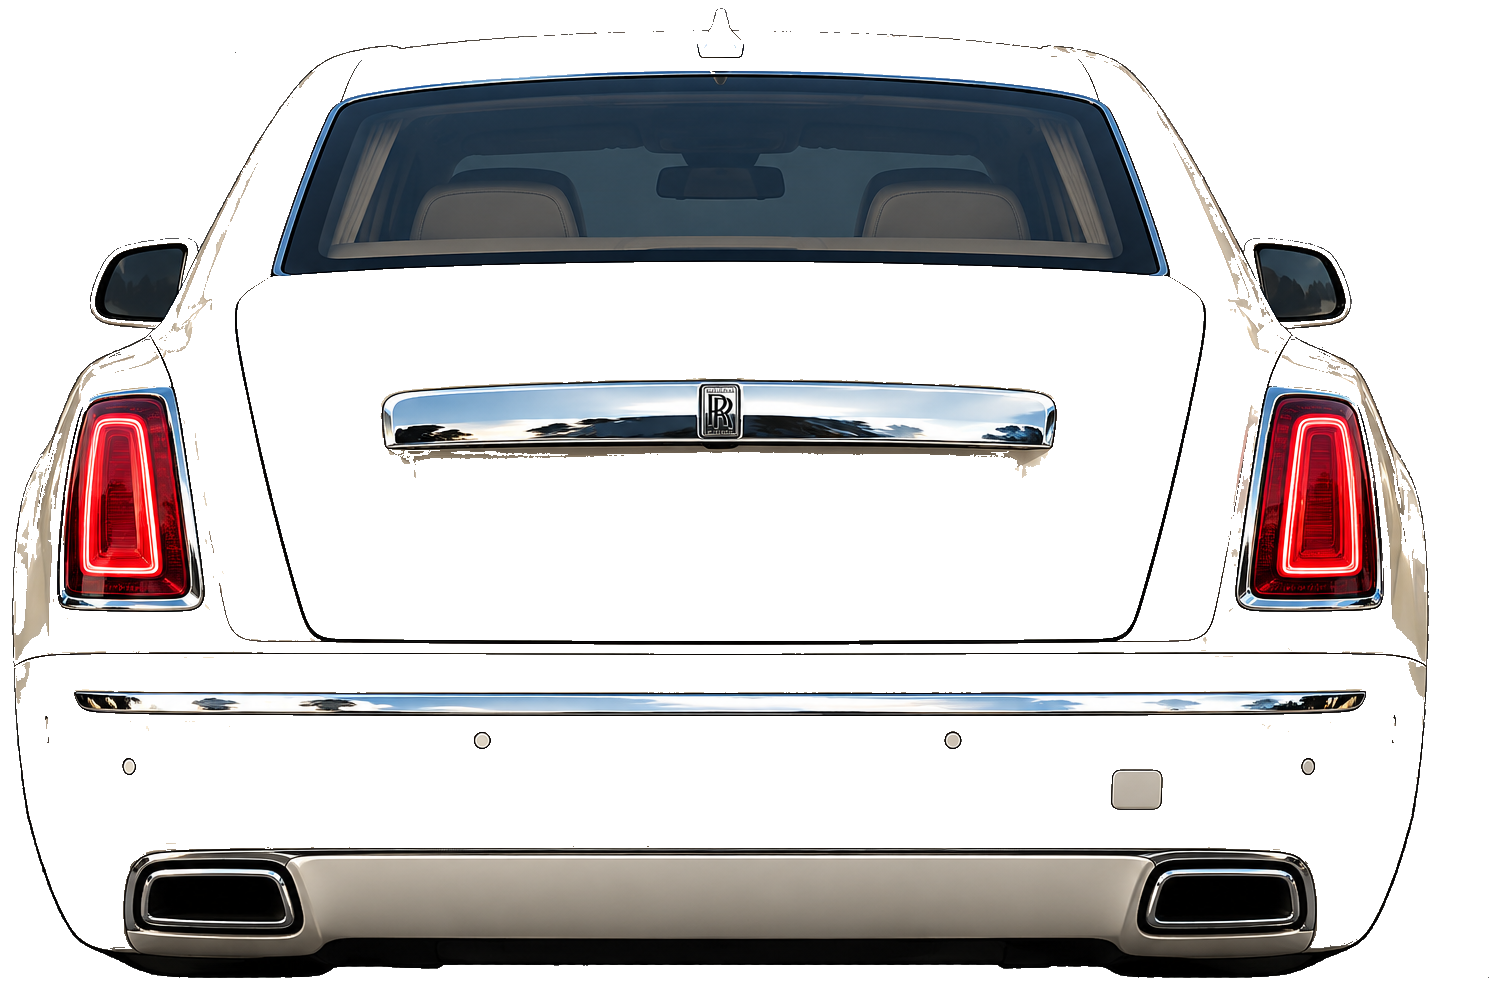
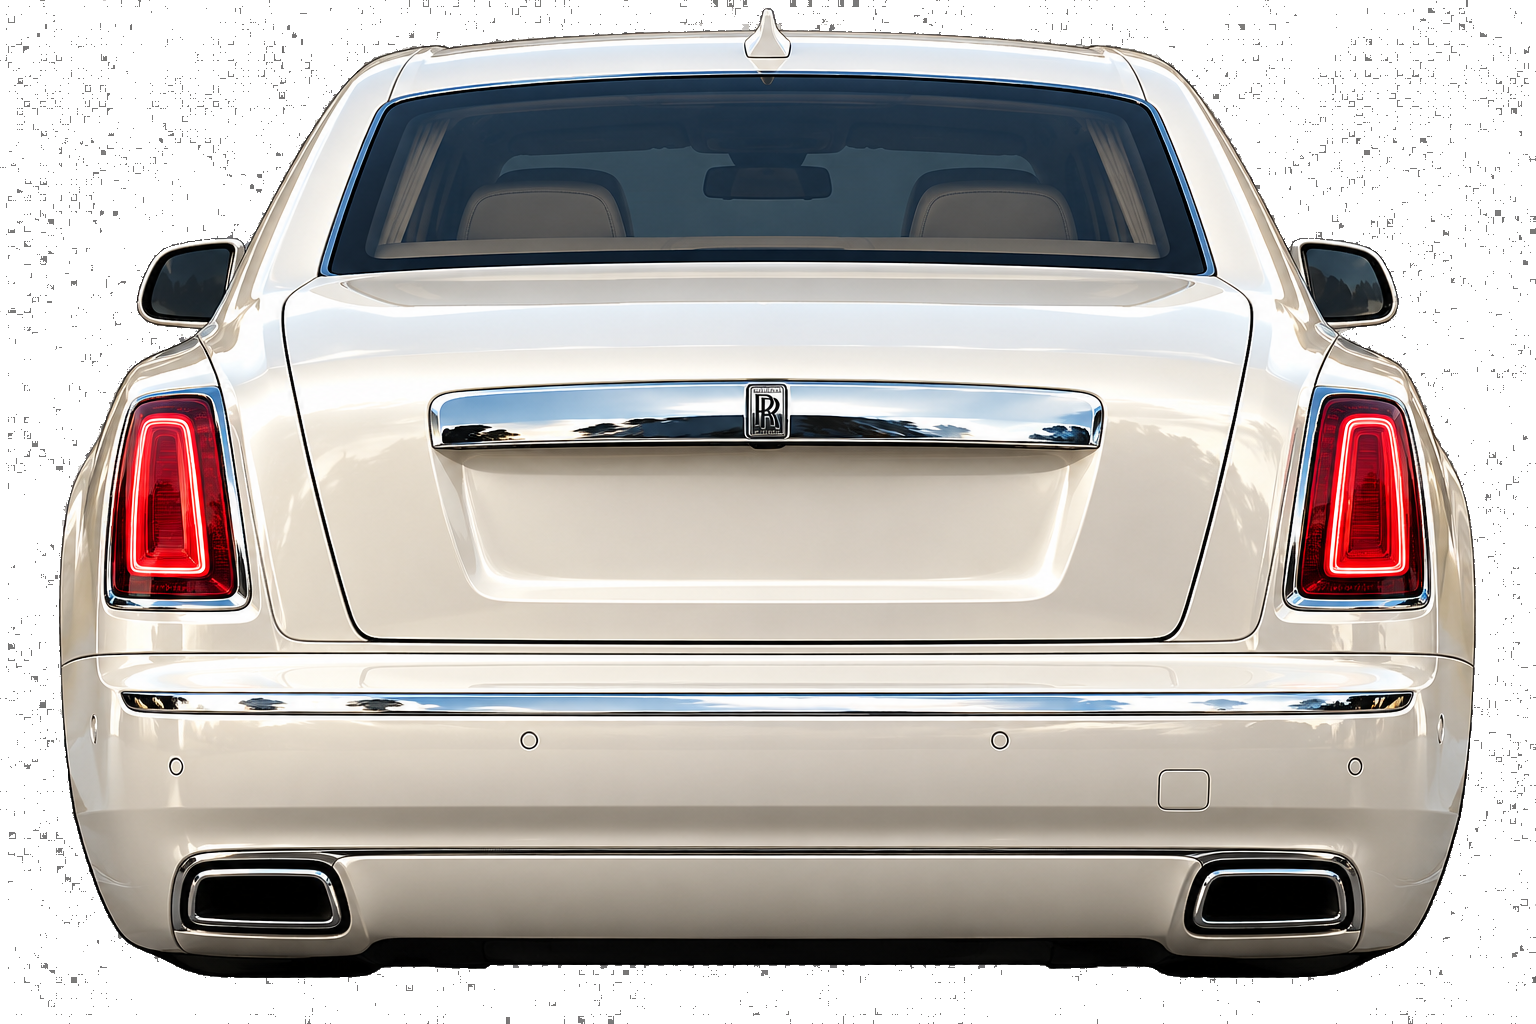
Fix Phantom race sprite transparency

diff --git a/index.html b/index.html
@@ -296,7 +296,7 @@ if(o.logo){c.fillStyle=o.logoColor||'#1b2230';c.font='bold 4px sans-serif';c.tex
 const RC=[{w:92,h:44,cw:50,ch:14,L:'r',e:2},{w:96,h:56,cw:66,ch:20,L:'rc',g:1.05,e:3},{w:104,h:50,cw:62,ch:15,L:'b3',e:2},{w:88,h:52,cw:58,ch:19,L:'rc',pd:1,e:1},{w:98,h:54,cw:64,ch:18,L:'q',g:.98,e:4},{w:108,h:54,cw:66,ch:16,L:'bar',e:2},{w:96,h:56,cw:62,ch:18,L:'rc',g:1.1,e:2},{w:100,h:50,cw:60,ch:15,L:'q',g:1,e:2},{w:106,h:48,cw:60,ch:13,L:'sl',e:2},{w:84,h:56,cw:48,ch:24,L:'r',dm:1,e:1},{w:94,h:46,cw:52,ch:15,L:'r',e:2},{w:98,h:48,cw:58,ch:15,L:'r',e:2},{w:98,h:46,cw:56,ch:14,L:'q',g:.8,e:2},{w:92,h:44,cw:54,ch:14,L:'rc',e:2},{w:110,h:44,cw:50,ch:12,L:'sl',g:1,e:4},{w:104,h:40,cw:48,ch:12,L:'rc',e:2},{w:96,h:52,cw:62,ch:17,L:'rc',e:2},{w:104,h:52,cw:62,ch:16,L:'q',g:1,e:4},{w:100,h:46,cw:56,ch:14,L:'bar',e:2},{w:108,h:42,cw:50,ch:12,L:'r',g:1.15,e:2},{w:96,h:46,cw:60,ch:14,L:'sl',e:2},{w:106,h:54,cw:56,ch:18,L:'bar',e:2},{w:96,h:44,cw:56,ch:14,L:'q',e:2},{w:108,h:56,cw:90,ch:20,L:'bar',e:2},{w:110,h:42,cw:58,ch:12,L:'bar',g:1,e:1},{w:80,h:50,cw:56,ch:16,L:'r',e:1},{w:104,h:50,cw:64,ch:15,L:'b3',g:1.1,e:4},{w:122,h:58,cw:82,ch:21,L:'bar',pd:1,e:4},{w:108,h:48,cw:66,ch:15,L:'q',g:1.05,e:3},{w:116,h:54,cw:70,ch:17,L:'bar',e:2},{w:96,h:46,cw:60,ch:15,L:'sl',e:2},{w:100,h:44,cw:58,ch:14,L:'q',e:2},{w:106,h:52,cw:68,ch:17,L:'b3',g:1,e:4},{w:120,h:50,cw:72,ch:15,L:'bar',e:2},{w:110,h:34,cw:82,ch:9,L:'bar',g:1.2,e:4}];
 const EX={1:[0],2:[-.3,.3],3:[-.14,0,.14],4:[-.36,-.26,.26,.36]};
 function rearCar(c,x,y,s,i,fl,br,cc){const m=RC[i],w=m.w*s,h=m.h*s,cw=m.cw*s,ch=m.ch*s,col=cc||SP[i].c,by=-h*.74;c.save();c.translate(x,y);
-if((i===33||i===34)&&SPRITE_IMG[i+'r']&&SPRITE_IMG[i+'r'].complete&&SPRITE_IMG[i+'r'].naturalWidth){const im=SPRITE_IMG[i+'r'],iw=w*1.2,ih=iw/(im.naturalWidth/im.naturalHeight),bob=Math.sin(T*21+i*1.7)*(.8+Math.min(1,(R?.v||0)/250)*.7)*s;c.translate(0,bob);c.rotate(Math.sin(T*2.6+i)*.006);c.save();c.shadowColor='#000c';c.shadowBlur=9*s;c.fillStyle='#0009';c.beginPath();c.ellipse(0,2*s,iw*.4,Math.max(2,ih*.05),0,0,Math.PI*2);c.fill();c.restore();c.imageSmoothingEnabled=true;c.drawImage(im,-iw/2,-ih+1*s,iw,ih);const pulse=.5+.5*Math.sin(T*8+i);c.save();c.globalCompositeOperation='lighter';c.shadowColor='#ff2626';c.shadowBlur=(4+4*pulse)*s;c.fillStyle='rgba(255,36,32,'+(.16+.2*pulse)+')';c.fillRect(-iw*.44,-ih*.43,iw*.11,ih*.035);c.fillRect(iw*.33,-ih*.43,iw*.11,ih*.035);if(i===34){c.shadowBlur=(3+5*pulse)*s;c.fillStyle='rgba(255,38,22,'+(.22+.3*pulse)+')';c.beginPath();c.ellipse(0,-ih*.47,iw*.018,ih*.012,0,0,Math.PI*2);c.fill()}c.restore();const shine=(T*32)%(iw+32)-iw/2-16;c.save();c.globalCompositeOperation='source-atop';c.globalAlpha=.12;const gloss=c.createLinearGradient(shine,-ih*.75,shine+iw*.1,-ih*.18);gloss.addColorStop(0,'#fff0');gloss.addColorStop(.5,'#fff');gloss.addColorStop(1,'#fff0');c.fillStyle=gloss;c.fillRect(-iw/2,-ih,iw,ih);c.restore();if(fl){const flame=i===34?[[0,-ih*.47]]:[[-iw*.36,-ih*.06],[iw*.36,-ih*.06]],len=(5+Math.sin(T*47+i)*3+Math.min(fl,42)*.12)*s;c.save();c.globalCompositeOperation='lighter';for(const [fx,fy]of flame){const g=c.createLinearGradient(fx,fy,fx,fy+len);g.addColorStop(0,'#fff9ac');g.addColorStop(.35,'#ffb52e');g.addColorStop(1,'#ff421a00');c.fillStyle=g;c.beginPath();c.moveTo(fx-iw*.018,fy);c.quadraticCurveTo(fx-iw*.025,fy+len*.5,fx,fy+len);c.quadraticCurveTo(fx+iw*.025,fy+len*.5,fx+iw*.018,fy);c.fill()}c.restore()}if(br){c.globalCompositeOperation='lighter';c.shadowColor='#ff2626';c.shadowBlur=9*s;c.fillStyle='#ff3030';c.fillRect(-iw*.44,-ih*.43,iw*.11,ih*.035);c.fillRect(iw*.33,-ih*.43,iw*.11,ih*.035);c.shadowBlur=0;c.globalCompositeOperation='source-over'}c.restore();return}if(i===27&&SPRITE_IMG[27]&&SPRITE_IMG[27].complete&&SPRITE_IMG[27].naturalWidth){const im=SPRITE_IMG[27],iw=w*1.48,ih=h*1.16;c.imageSmoothingEnabled=false;c.drawImage(im,-iw/2,by-h*.2,iw,ih);if(fl){c.globalCompositeOperation='lighter';c.shadowColor='#ff6b21';c.shadowBlur=14*s;c.fillStyle='#ff8a24';c.fillRect(-w*.07,by+h*.62,w*.14,h*.12);c.shadowBlur=0;c.globalCompositeOperation='source-over'}c.restore();return}
+if((i===33||i===34)&&SPRITE_IMG[i+'r']&&SPRITE_IMG[i+'r'].complete&&SPRITE_IMG[i+'r'].naturalWidth){const im=SPRITE_IMG[i+'r'],iw=w*.95,ih=iw/(im.naturalWidth/im.naturalHeight),bob=Math.sin(T*21+i*1.7)*(.8+Math.min(1,(R?.v||0)/250)*.7)*s;c.translate(0,bob);c.rotate(Math.sin(T*2.6+i)*.006);c.save();c.shadowColor='#000c';c.shadowBlur=9*s;c.fillStyle='#0009';c.beginPath();c.ellipse(0,2*s,iw*.4,Math.max(2,ih*.05),0,0,Math.PI*2);c.fill();c.restore();c.imageSmoothingEnabled=true;c.drawImage(im,-iw/2,-ih+1*s,iw,ih);const pulse=.5+.5*Math.sin(T*8+i);c.save();c.globalCompositeOperation='lighter';c.shadowColor='#ff2626';c.shadowBlur=(4+4*pulse)*s;c.fillStyle='rgba(255,36,32,'+(.16+.2*pulse)+')';c.fillRect(-iw*.44,-ih*.43,iw*.11,ih*.035);c.fillRect(iw*.33,-ih*.43,iw*.11,ih*.035);if(i===34){c.shadowBlur=(3+5*pulse)*s;c.fillStyle='rgba(255,38,22,'+(.22+.3*pulse)+')';c.beginPath();c.ellipse(0,-ih*.47,iw*.018,ih*.012,0,0,Math.PI*2);c.fill()}c.restore();const shine=(T*32)%(iw+32)-iw/2-16;c.save();c.globalCompositeOperation='source-atop';c.globalAlpha=.12;const gloss=c.createLinearGradient(shine,-ih*.75,shine+iw*.1,-ih*.18);gloss.addColorStop(0,'#fff0');gloss.addColorStop(.5,'#fff');gloss.addColorStop(1,'#fff0');c.fillStyle=gloss;c.fillRect(-iw/2,-ih,iw,ih);c.restore();if(fl){const flame=i===34?[[0,-ih*.47]]:[[-iw*.36,-ih*.06],[iw*.36,-ih*.06]],len=(5+Math.sin(T*47+i)*3+Math.min(fl,42)*.12)*s;c.save();c.globalCompositeOperation='lighter';for(const [fx,fy]of flame){const g=c.createLinearGradient(fx,fy,fx,fy+len);g.addColorStop(0,'#fff9ac');g.addColorStop(.35,'#ffb52e');g.addColorStop(1,'#ff421a00');c.fillStyle=g;c.beginPath();c.moveTo(fx-iw*.018,fy);c.quadraticCurveTo(fx-iw*.025,fy+len*.5,fx,fy+len);c.quadraticCurveTo(fx+iw*.025,fy+len*.5,fx+iw*.018,fy);c.fill()}c.restore()}if(br){c.globalCompositeOperation='lighter';c.shadowColor='#ff2626';c.shadowBlur=9*s;c.fillStyle='#ff3030';c.fillRect(-iw*.44,-ih*.43,iw*.11,ih*.035);c.fillRect(iw*.33,-ih*.43,iw*.11,ih*.035);c.shadowBlur=0;c.globalCompositeOperation='source-over'}c.restore();return}if(i===27&&SPRITE_IMG[27]&&SPRITE_IMG[27].complete&&SPRITE_IMG[27].naturalWidth){const im=SPRITE_IMG[27],iw=w*1.48,ih=h*1.16;c.imageSmoothingEnabled=false;c.drawImage(im,-iw/2,by-h*.2,iw,ih);if(fl){c.globalCompositeOperation='lighter';c.shadowColor='#ff6b21';c.shadowBlur=14*s;c.fillStyle='#ff8a24';c.fillRect(-w*.07,by+h*.62,w*.14,h*.12);c.shadowBlur=0;c.globalCompositeOperation='source-over'}c.restore();return}
 c.fillStyle='#0005';c.beginPath();c.ellipse(0,0,w*.62,h*.16,0,0,7);c.fill();c.fillStyle='#0b0d12';c.fillRect(-w*.53,-h*.4,w*.15,h*.4);c.fillRect(w*.38,-h*.4,w*.15,h*.4);
 if(m.g){const wy=by-ch*m.g*.9;c.fillStyle='#111';for(const q of[-1,1])c.fillRect(q*w*.3-w*.02,wy,w*.04,by-wy)}
 c.fillStyle=col;c.beginPath();if(m.dm)c.ellipse(0,by,cw*.62,ch*1.1,0,Math.PI,0);else{c.moveTo(-cw/2-ch*.45,by);c.lineTo(-cw/2,by-ch);c.lineTo(cw/2,by-ch);c.lineTo(cw/2+ch*.45,by)}c.fill();
@@ -475,7 +475,7 @@ let x=W/2,dx=0;for(let y=H-1;y>=hy;y--){const p=Math.max((y-hy)/(H-hy),.03),z=.8
 for(let y=hy;y<H;y++){const p=Math.max((y-hy)/(H-hy),.03),st=Math.floor((.87*60/p+r.d)/45)%2,h=hw[y],X=cx[y];
 c.fillStyle=st?TH[2]:TH[3];c.fillRect(-10,y,380,1);c.fillStyle=st?'#e8e8e8':'#e5483b';c.fillRect(X-h*1.12,y,h*2.24,1);c.fillStyle=st?TH[4]:TH[5];c.fillRect(X-h,y,h*2,1);
 if(st){c.fillStyle='#f1ede4';for(const u of[-.33,.33])c.fillRect(X+u*h-p*1.5,y,p*3+1,1)}}
-const lx=(yy,u)=>cx[yy]+u*.66*hw[yy],O=[];
+const lx=(yy,u)=>cx[yy]+u*.58*hw[yy],O=[];
 for(let q=16;q>=0;q--){const wz=(Math.floor(r.d/90)+q)*90,dz=wz-r.d,yy=Math.min(H-1,Math.round(hy+pf(dz)*(H-hy)*(1/.87)*(.87)));if(dz<0)continue;const p=pf(dz),y=Math.min(H-1,Math.round(hy+p*(H-hy)/1));const id=Math.floor(wz/90);O.push({dz,f:()=>{const s=id%2?-1:1;scen(c,cx[y]+s*hw[y]*1.45,y,p*1.1,k,id)}})}
 r.ob.forEach(o=>{const dz=o.d-r.d;if(dz<-8||dz>1200)return;const p=pf(dz),y=Math.min(H-1,Math.round(hy+p*(H-hy)));O.push({dz,f:()=>{obj(c,o,lx(y,o.l-1),y,p*1.1,lx(y,o.l))}})});
 const rdz=r.rd-r.d;if(rdz>=-8){const p=pf(rdz),y=Math.min(H-1,Math.round(hy+p*(H-hy)));O.push({dz:rdz-.1,f:()=>rearCar(c,lx(y,Math.sin(r.t*.9+2)*.9),y,p*1.1,f.i,r.state=='go'&&Math.sin(r.t*9)>.5?14:0,0)})}
